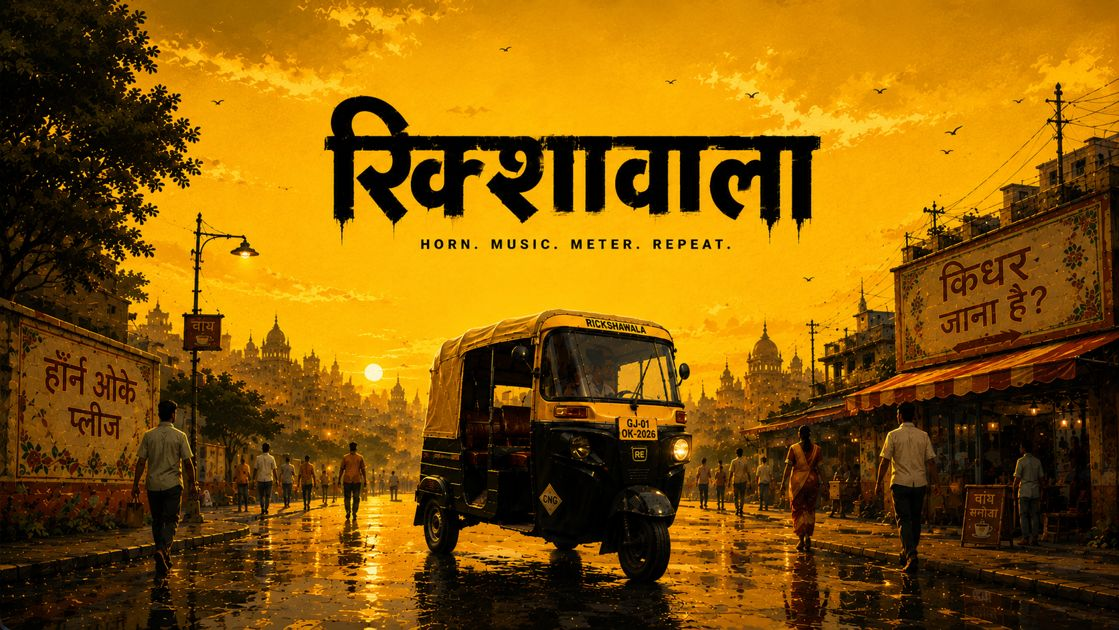
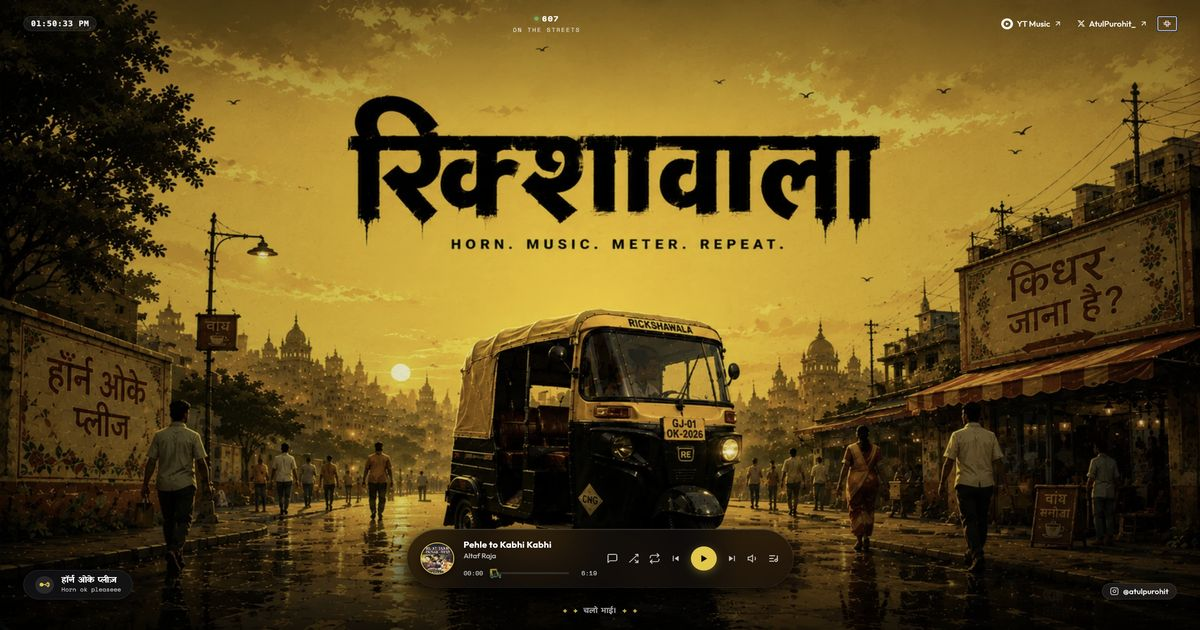
fix: compress og-preview.jpg from 5MB to 134KB (<150KB) for instant previews on WhatsApp, X, Facebook, LinkedIn & iMessage

diff --git a/about.html b/about.html
@@ -21,6 +21,9 @@
   <meta property="og:image" content="https://rickshawala.fun/assets/og-preview.jpg">
   <meta property="og:image:secure_url" content="https://rickshawala.fun/assets/og-preview.jpg">
   <meta property="og:image:type" content="image/jpeg">
+  <meta property="og:image:width" content="1200">
+  <meta property="og:image:height" content="630">
+  <meta property="og:image:alt" content="About RICKSHAWALA — 90s Hindi Music &amp; Auto-Rickshaw Nostalgia">
   <meta property="og:site_name" content="RICKSHAWALA.FUN">
   <link rel="image_src" href="https://rickshawala.fun/assets/og-preview.jpg">
 

diff --git a/about/index.html b/about/index.html
@@ -21,6 +21,9 @@
   <meta property="og:image" content="https://rickshawala.fun/assets/og-preview.jpg">
   <meta property="og:image:secure_url" content="https://rickshawala.fun/assets/og-preview.jpg">
   <meta property="og:image:type" content="image/jpeg">
+  <meta property="og:image:width" content="1200">
+  <meta property="og:image:height" content="630">
+  <meta property="og:image:alt" content="About RICKSHAWALA — 90s Hindi Music &amp; Auto-Rickshaw Nostalgia">
   <meta property="og:site_name" content="RICKSHAWALA.FUN">
   <link rel="image_src" href="https://rickshawala.fun/assets/og-preview.jpg">
 
